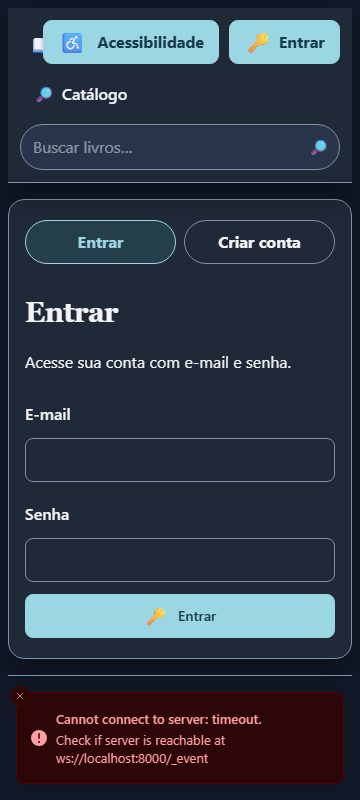
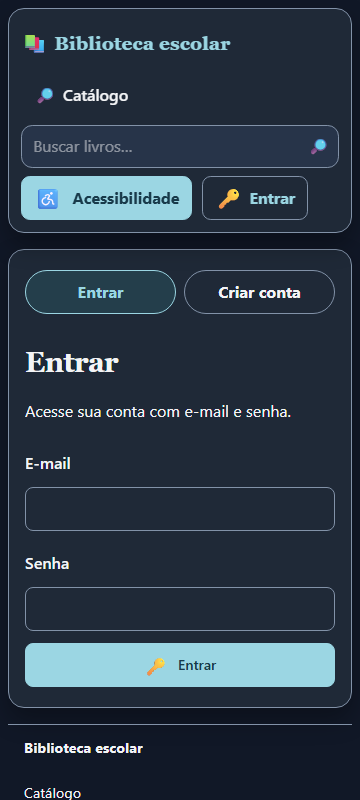
Registra verificação visual e sincroniza specs

diff --git a/openspec/specs/frontend-foundation/spec.md b/openspec/specs/frontend-foundation/spec.md
@@ -154,11 +154,15 @@ A caixa Perfil e a caixa Acessibilidade MUST fechar por Escape e por interação
 - **THEN** somente a caixa recém-aberta permanece expandida
 
 ### Requirement: Rodapé comum não duplica a navegação principal
-Todas as rotas MUST apresentar um rodapé curto compartilhado com a identificação “Sobre a biblioteca” e somente links já disponíveis, sem repetir atalhos soltos no conteúdo principal.
+Todas as rotas MUST apresentar um rodapé curto compartilhado, identificado como “Biblioteca escolar” e contendo somente links já disponíveis. “Sobre a biblioteca” MUST ser uma seção de conteúdo da home, não um rótulo que substitui a identificação do rodapé.
 
 #### Scenario: Rodapé compartilhado
 - **WHEN** pessoa abre qualquer rota da aplicação
-- **THEN** encontra um único rodapé com “Sobre a biblioteca” e destinos existentes
+- **THEN** encontra um único rodapé com “Biblioteca escolar” e destinos existentes
+
+#### Scenario: Seção Sobre na home
+- **WHEN** pessoa percorre a home
+- **THEN** encontra a seção “Sobre a biblioteca” separada do rodapé
 
 #### Scenario: Navegação do corpo da página
 - **WHEN** pessoa percorre o conteúdo de qualquer rota
@@ -364,19 +368,23 @@ O interruptor MUST mostrar a ação oposta ao tema efetivo atual e manter o esta
 - **THEN** o controle mostra “☀ Modo claro” e acompanha todas as rotas
 
 ### Requirement: Identificadores usam emojis decorativos
-Marca, navegação, ações e selos MUST usar o símbolo previsto no guia, com texto curto visível. O emoji decorativo fica em elemento próprio com `aria-hidden="true"`; cada botão também fornece `title` e `aria-label` descritivos.
+Marca, navegação, ações principais e selos MUST usar o símbolo previsto no guia, com texto curto visível. O emoji decorativo MUST ficar em elemento próprio com `aria-hidden="true"`; cada botão MUST fornecer `title` e `aria-label` descritivos. Fora desses usos, a home MUST usar `📚` somente no título “Livros em destaque”.
 
 #### Scenario: Emoji decorativo em rótulo
-- **WHEN** interface apresenta marca, destino, seção, selo ou botão com emoji
+- **WHEN** interface apresenta marca, destino, ação principal, selo ou o título de destaque
 - **THEN** o emoji fica em elemento próprio com `aria-hidden="true"` antes do texto correspondente
 
 #### Scenario: Ação com texto acessível
-- **WHEN** pessoa encontra um botão de ação
+- **WHEN** pessoa encontra um botão de ação principal
 - **THEN** encontra um emoji e um texto de uma a três palavras, com `title` e `aria-label` correspondentes
 
 #### Scenario: Ações distintas usam emojis exclusivos
 - **WHEN** duas ações distintas aparecem no site
 - **THEN** cada uma usa emoji exclusivo conforme o dicionário documentado
+
+#### Scenario: Emoji não é espalhado pelo conteúdo
+- **WHEN** pessoa percorre textos, metadados, títulos de seção ou descrições que não sejam o título de destaque
+- **THEN** esses conteúdos não recebem emojis decorativos adicionais
 
 #### Scenario: Confirmação destrutiva inline
 - **WHEN** pessoa confirma ou cancela uma ação destrutiva
@@ -445,3 +453,48 @@ O sistema MUST apresentar uma barra superior sticky não quebrável no desktop, 
 #### Scenario: Navegação móvel
 - **WHEN** viewport é menor ou igual a 48 rem
 - **THEN** o botão móvel aparece, a navegação é exibida em painel abaixo e o nome da marca não é sobreposto
+
+### Requirement: A interface recupera a hierarquia visual do modelo
+A aplicação MUST usar a paleta, tipografia e hierarquia de cartões do modelo visual restaurado nos dois temas, sem remover conteúdo ou fluxos acrescentados depois dele.
+
+#### Scenario: Tema escuro e identidade visual
+- **WHEN** pessoa navega com o tema escuro ativo
+- **THEN** a interface usa painéis azul-marinho, bordas finas, cantos arredondados e títulos serifados; ciano fica restrito a ações principais, números de estatística e links
+
+#### Scenario: Cabeçalho e busca global
+- **WHEN** pessoa abre qualquer página
+- **THEN** encontra marca serifada, Catálogo, busca global compacta e neutra e controles de Perfil e Acessibilidade com contorno, mantendo a busca direcionada a `/catalogo`
+
+#### Scenario: Home preserva conteúdo e hierarquia
+- **WHEN** pessoa percorre a home
+- **THEN** encontra o hero sem busca ou botões, as estatísticas reais, “📚 Livros em destaque”, as seções existentes de novidades, categorias e reserva, o resumo de perfil aplicável e “Sobre a biblioteca”
+
+#### Scenario: Cartões de livros permanecem compactos
+- **WHEN** a home exibe poucos ou muitos livros
+- **THEN** os cartões mantêm largura contida, capa vertical e espaçamento consistente sem esticar para preencher uma seção vazia
+
+### Requirement: Faixa da visão do admin fica abaixo do cabeçalho
+Quando admin real usa uma visão diferente de Administrador, a aplicação MUST mostrar o estado da visão em uma faixa própria abaixo do cabeçalho, sem aumentar a altura do cabeçalho.
+
+#### Scenario: Admin usa visão simulada
+- **WHEN** admin seleciona a visão Estudante ou Bibliotecário
+- **THEN** uma faixa de largura total, com altura mínima de `2.25rem`, mostra “Modo de visualização” em uma linha e “Voltar à visão de admin”
+
+#### Scenario: Admin retorna à visão Administrador
+- **WHEN** admin está na visão Administrador
+- **THEN** a faixa de visão simulada não é exibida
+
+### Requirement: Painel de Acessibilidade organiza controles em linhas
+O painel de Acessibilidade MUST apresentar uma linha por opção, com rótulo à esquerda e controle à direita, sem sobreposição ou conteúdo fora do painel.
+
+#### Scenario: Controles de aparência em viewport estreita
+- **WHEN** pessoa abre Acessibilidade em viewport de 360 px
+- **THEN** o painel cabe em `min(20rem, 92vw)`, usa coluna, espaçamento de `0.5rem` e preenchimento de `0.75rem`, sem rolagem horizontal
+
+#### Scenario: Escala da fonte
+- **WHEN** pessoa ajusta a escala da fonte no painel
+- **THEN** A−, 100% e A+ são controles separados com alvos de pelo menos 44 px
+
+#### Scenario: Preferências booleanas
+- **WHEN** pessoa consulta alto contraste, redução de movimento ou tema
+- **THEN** cada opção aparece em uma linha e anuncia “Ligado” ou “Desligado” conforme o estado efetivo

diff --git a/openspec/specs/catalog/spec.md b/openspec/specs/catalog/spec.md
@@ -456,3 +456,79 @@ O script de seed MUST operar em dry-run por padrão, exigir `XANO_SEED_EMAIL` e 
 #### Scenario: Categorias aprovadas
 - **WHEN** o plano é preparado
 - **THEN** usa somente Literatura, Ciências, História, Geografia, Matemática, Infantil, Didáticos e Biografias
+
+### Requirement: Pílulas de categoria exibem contagens reais
+As pílulas de categoria do catálogo MUST usar contagens calculadas a partir dos títulos ativos ou omitir a contagem quando ela não estiver disponível.
+
+#### Scenario: Categoria com títulos
+- **WHEN** categoria tem títulos ativos no catálogo
+- **THEN** a pílula mostra a quantidade real de títulos associados
+
+#### Scenario: Categoria sem títulos
+- **WHEN** categoria não tem títulos ativos
+- **THEN** a pílula mostra zero, sem parênteses vazios
+
+#### Scenario: Contagem ausente
+- **WHEN** a interface recebe uma categoria sem valor de contagem
+- **THEN** mostra somente o nome da categoria, sem `()`
+
+### Requirement: Cartões públicos de livros mantêm proporção e largura
+A grade pública de livros MUST manter cartões compactos de 190 px a 220 px e capas na proporção 2:3, sem ampliar cartões para preencher espaços vazios.
+
+#### Scenario: Poucos títulos
+- **WHEN** a grade contém poucos títulos
+- **THEN** as colunas começam em 190 px, não excedem 220 px e ficam alinhadas ao início
+
+#### Scenario: Muitos títulos
+- **WHEN** a largura disponível permite várias colunas
+- **THEN** a grade preenche a linha com colunas de até 220 px, preservando o espaçamento entre cartões
+
+#### Scenario: Capa de livro
+- **WHEN** cartão apresenta capa remota, gerada ou fallback
+- **THEN** sua caixa visual preserva a proporção 2:3
+
+### Requirement: Livros de exemplo têm metadados consistentes
+O conjunto de livros de exemplo MUST conter 30 títulos distintos com autoria, ISBN-13 válido, ano, editora, descrição curta própria, categoria e quantidade de exemplares entre dois e três.
+
+#### Scenario: Validar o conjunto de exemplo
+- **WHEN** testes locais validam os dados de exemplo
+- **THEN** encontram 30 títulos distintos, ISBN-13 com dígito verificador válido e todos os campos definidos
+
+#### Scenario: Quantidade de exemplares
+- **WHEN** um livro de exemplo é importado
+- **THEN** são solicitados os dois ou três exemplares definidos para aquele título
+
+### Requirement: Admin importa livros de exemplo pelo Acervo
+A interface MUST oferecer ao admin real uma prévia somente leitura e uma importação confirmada dos livros de exemplo, usando apenas categorias existentes e preservando os registros atuais.
+
+#### Scenario: Acesso restrito
+- **WHEN** visitante, estudante ou bibliotecário abre o Acervo
+- **THEN** a seção “📥 Livros de exemplo” não é exibida nem inicia chamadas de importação
+
+#### Scenario: Seção recolhida
+- **WHEN** admin real abre o Acervo
+- **THEN** encontra a seção recolhida com a descrição “Adiciona 30 livros reais ao acervo, com 2 ou 3 exemplares cada. Livros que já existem são ignorados.”
+
+#### Scenario: Prévia sem escrita
+- **WHEN** admin real ativa “Ver o que será adicionado”
+- **THEN** a interface lê o catálogo e as categorias do servidor e mostra quantos títulos serão criados, quantos já existem e quais categorias não existem, sem enviar chamadas de escrita
+
+#### Scenario: Categoria inexistente
+- **WHEN** a categoria de um livro de exemplo não existe no servidor
+- **THEN** a interface a identifica na prévia e não cria a categoria nem um título sem o vínculo necessário
+
+#### Scenario: Confirmação e importação sequencial
+- **WHEN** admin real confirma “Adicionar agora”
+- **THEN** a interface cria cada título, associação e exemplar sequencialmente com a sessão do admin, mostra o progresso de 1 a 30 e recarrega o catálogo ao terminar
+
+#### Scenario: Repetir importação
+- **WHEN** admin real executa novamente a importação após os títulos terem sido criados
+- **THEN** pares de título e autoria que já existem, ignorando caixa e acentos, não são criados novamente
+
+#### Scenario: Interromper em erro inesperado
+- **WHEN** uma operação retorna 401, 403, 5xx, resposta inválida ou tempo esgotado
+- **THEN** a importação para no primeiro erro, informa os totais criados, ignorados e com erro e não repete automaticamente escritas confirmadas
+
+#### Scenario: Segredos permanecem privados
+- **WHEN** a prévia ou importação falha
+- **THEN** mensagens e logs não mostram token, senha, e-mail ou cabeçalho de autorização

diff --git a/docs/relatorio-noite.md b/docs/relatorio-noite.md
@@ -977,6 +977,58 @@ O critério foi ajustado para detectar o placeholder; não houve quinta rodada.
   revisado após `71cb6dc` para encerrar o processo próprio pelo PID e detectar
   estados `Carregando`, mas essas revisões não foram executadas por uma quinta
   rodada.
-- A validação `openspec.cmd validate --specs --strict` e o push ainda precisam
-  ser concluídos. A Change `layout-livraria-v6` permanece aberta; não arquivar
-  enquanto a matriz não passar sem violações.
+- Naquele momento, a validação estrita das specs e o push ainda precisavam ser
+  concluídos. A recomendação de manter `layout-livraria-v6` aberta foi
+  posteriormente substituída pela instrução de arquivá-la como superada por
+  `restaura-visual-v7`, mesmo com a matriz incompleta.
+
+## Restauração visual v7 — verificação final
+
+### Verificações locais
+
+- `scripts/verificar.ps1` foi bloqueado pela política de execução do PowerShell;
+  não houve tentativa de contornar a política. Os passos equivalentes foram
+  executados em sequência: `.\.venv\Scripts\python.exe -m reflex compile --dry`
+  passou e `.\.venv\Scripts\python.exe -m pytest --ignore=evaluation` passou
+  com 322 testes.
+- A API demo respondeu HTTP 200 e as rotas `/`, `/catalogo` e `/login`
+  responderam HTTP 200 ao aquecimento com `Invoke-WebRequest -TimeoutSec 300`.
+- A porta 8000 estava ocupada por processo não identificável e não foi
+  encerrada. O Reflex foi iniciado na porta 8001; frontend em 3000. Os serviços
+  iniciados para a verificação foram encerrados ao final. Nenhuma escrita no
+  Xano foi realizada.
+- O robô foi executado uma única vez, somente para visitante, em 12 combinações
+  das três rotas, duas larguras e dois temas. Início registrado em
+  `2026-11-23T21:17:58.468Z`; duração 287 s; limite 900 s.
+
+### Última matriz visual
+
+| Rota | Perfil | Largura | Tema | Resultado | Achados | Captura |
+|---|---|---:|---|---|---|---|
+| `/` | visitante | 360 | claro | PASSOU | nenhum | [PNG](./capturas/verificacao/home-visitante-360-claro.png) |
+| `/` | visitante | 360 | escuro | FALHOU | hidratação | [PNG](./capturas/verificacao/home-visitante-360-escuro.png) |
+| `/` | visitante | 1366 | claro | PASSOU | nenhum | [PNG](./capturas/verificacao/home-visitante-1366-claro.png) |
+| `/` | visitante | 1366 | escuro | FALHOU | hidratação | [PNG](./capturas/verificacao/home-visitante-1366-escuro.png) |
+| `/catalogo` | visitante | 360 | claro | PASSOU | nenhum | [PNG](./capturas/verificacao/catalogo-visitante-360-claro.png) |
+| `/catalogo` | visitante | 360 | escuro | PASSOU | nenhum | [PNG](./capturas/verificacao/catalogo-visitante-360-escuro.png) |
+| `/catalogo` | visitante | 1366 | claro | PASSOU | nenhum | [PNG](./capturas/verificacao/catalogo-visitante-1366-claro.png) |
+| `/catalogo` | visitante | 1366 | escuro | PASSOU | nenhum | [PNG](./capturas/verificacao/catalogo-visitante-1366-escuro.png) |
+| `/login` | visitante | 360 | claro | PASSOU | nenhum | [PNG](./capturas/verificacao/login-visitante-360-claro.png) |
+| `/login` | visitante | 360 | escuro | PASSOU | nenhum | [PNG](./capturas/verificacao/login-visitante-360-escuro.png) |
+| `/login` | visitante | 1366 | claro | PASSOU | nenhum | [PNG](./capturas/verificacao/login-visitante-1366-claro.png) |
+| `/login` | visitante | 1366 | escuro | PASSOU | nenhum | [PNG](./capturas/verificacao/login-visitante-1366-escuro.png) |
+
+### O que não foi verificado
+
+- A home no tema escuro não hidratou em nenhuma largura; as capturas mostram
+  conteúdo ainda carregando em 360 px e uma página sem conteúdo visível em
+  1366 px. Esses estados não foram tratados como aprovação visual. A saída do
+  robô também informou falha ao observar o encerramento do Edge pelo processo
+  iniciado; uma consulta posterior não encontrou Edge associado ao perfil
+  temporário `biblioteca-layout-`.
+- A rodada não cobriu rotas de detalhe, cadastro, reservas ou administração,
+  contas autenticadas, menus abertos nem interações. Não houve uma segunda
+  rodada nem verificação visual dessas áreas.
+- A aparência implementada aguarda conferência do usuário; os dois resultados
+  da home escura permanecem falhos e devem ser tratados antes de afirmar
+  hidratação visual completa.

diff --git a/openspec/changes/restaura-visual-v7/tasks.md b/openspec/changes/restaura-visual-v7/tasks.md
@@ -2,11 +2,11 @@
 
 ## 1. Cabeçalho e aparência compartilhada
 
-- [x] 1.1 Restaurar os tokens, tipografia, cabeçalho, faixa de visão do admin, Perfil, Acessibilidade e rodapé; manter busca, navegação e preferências existentes. Evidências: commit `221beb8`; `.\.venv\Scripts\python.exe -m pytest tests/test_navigation.py tests/test_frontend_foundation.py` (66 aprovados). Aparência implementada, aguarda conferência do usuário; matriz visual será registrada em 5.1.
+- [x] 1.1 Restaurar os tokens, tipografia, cabeçalho, faixa de visão do admin, Perfil, Acessibilidade e rodapé; manter busca, navegação e preferências existentes. Evidências: commit `221beb8`; `.\.venv\Scripts\python.exe -m pytest tests/test_navigation.py tests/test_frontend_foundation.py` (66 aprovados); saída do robô em `docs/verificacao-layout.md` (12 combinações de rotas públicas). Aparência implementada, aguarda conferência do usuário; menus abertos e estados administrativos não foram verificados visualmente.
 
 ## 2. Home e cartões
 
-- [x] 2.1 Restaurar o hero e as seções da home sem perder dados dinâmicos, resumo por perfil, novidades, categorias ou passos de reserva; reintroduzir Sobre, corrigir contagens das pílulas e atualizar os contratos CSS antigos. Evidências: commit `d70d812`; `.\.venv\Scripts\python.exe -m pytest tests/test_layout_v5.py tests/test_primary_journeys.py tests/test_catalog.py tests/test_navigation.py tests/test_frontend_foundation.py tests/test_icons.py` (124 aprovados). Aparência implementada, aguarda conferência do usuário; matriz visual será registrada em 5.1.
+- [x] 2.1 Restaurar o hero e as seções da home sem perder dados dinâmicos, resumo por perfil, novidades, categorias ou passos de reserva; reintroduzir Sobre, corrigir contagens das pílulas e atualizar os contratos CSS antigos. Evidências: commit `d70d812`; `.\.venv\Scripts\python.exe -m pytest tests/test_layout_v5.py tests/test_primary_journeys.py tests/test_catalog.py tests/test_navigation.py tests/test_frontend_foundation.py tests/test_icons.py` (124 aprovados); robô em `docs/verificacao-layout.md` (home claro passou nas duas larguras; home escuro falhou na hidratação nas duas). Aparência implementada, aguarda conferência do usuário; tema escuro da home não está verificado visualmente.
 
 ## 3. Dados compartilhados de exemplo
 

diff --git a/openspec/changes/restaura-visual-v7/specs/frontend-foundation/spec.md b/openspec/changes/restaura-visual-v7/specs/frontend-foundation/spec.md
@@ -28,6 +28,10 @@ Marca, navegação, ações principais e selos MUST usar o símbolo previsto no 
 - **WHEN** pessoa encontra um botão de ação principal
 - **THEN** encontra um emoji e um texto de uma a três palavras, com `title` e `aria-label` correspondentes
 
+#### Scenario: Ações distintas usam emojis exclusivos
+- **WHEN** duas ações distintas aparecem no site
+- **THEN** cada uma usa emoji exclusivo conforme o dicionário documentado
+
 #### Scenario: Emoji não é espalhado pelo conteúdo
 - **WHEN** pessoa percorre textos, metadados, títulos de seção ou descrições que não sejam o título de destaque
 - **THEN** esses conteúdos não recebem emojis decorativos adicionais
